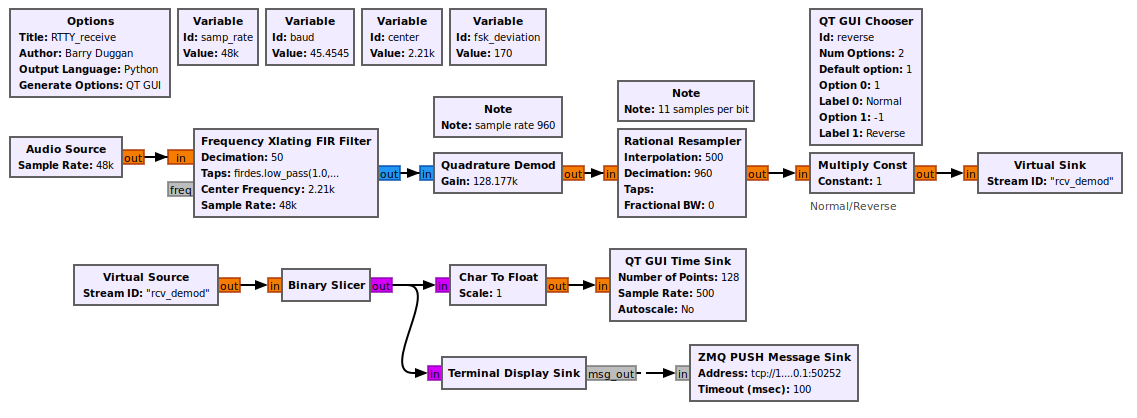
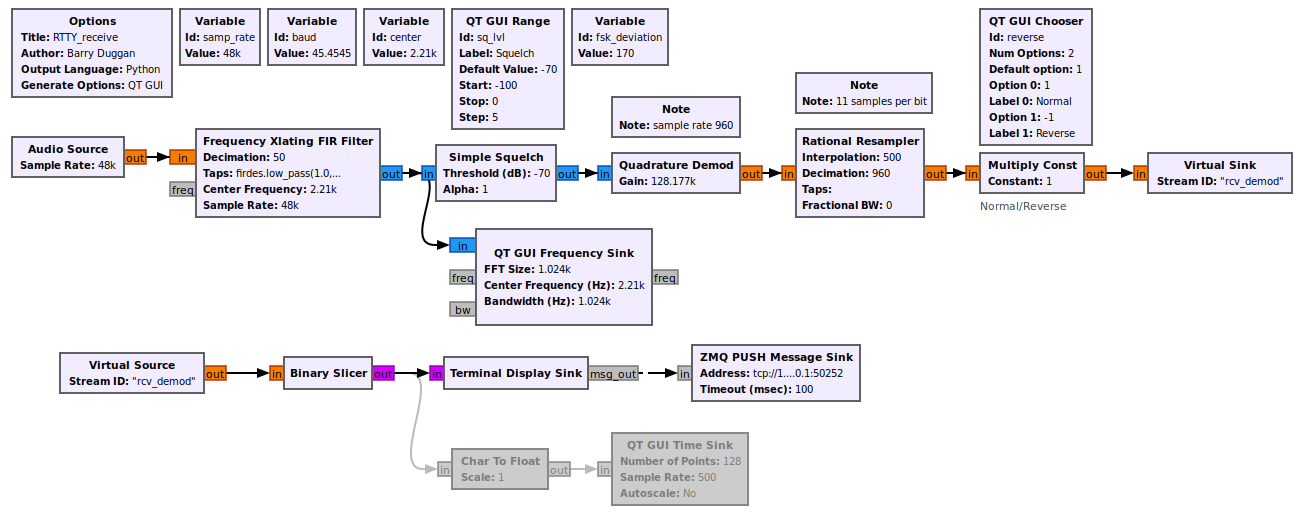
send two LTRS, text, CR, CR, LF; add squelch and tuning indicator

Changed region(s): [[0.0, 0.0, 1.0, 0.622], [0.0308, 0.5909, 0.6772, 0.7775], [0.3078, 0.8086, 0.7696, 0.9952]]

diff --git a/RTTY_rcv/RTTY_receive.py b/RTTY_rcv/RTTY_receive.py
@@ -39,6 +39,8 @@ from argparse import ArgumentParser
 from gnuradio.eng_arg import eng_float, intx
 from gnuradio import eng_notation
 from gnuradio import zeromq
+from gnuradio.qtgui import Range, RangeWidget
+from PyQt5 import QtCore
 import epy_block_0
 
 from gnuradio import qtgui
@@ -79,6 +81,7 @@ class RTTY_receive(gr.top_block, Qt.QWidget):
         ##################################################
         # Variables
         ##################################################
+        self.sq_lvl = sq_lvl = -70
         self.samp_rate = samp_rate = 48000
         self.reverse = reverse = 1
         self.fsk_deviation = fsk_deviation = 170
@@ -88,6 +91,9 @@ class RTTY_receive(gr.top_block, Qt.QWidget):
         ##################################################
         # Blocks
         ##################################################
+        self._sq_lvl_range = Range(-100, 0, 5, -70, 200)
+        self._sq_lvl_win = RangeWidget(self._sq_lvl_range, self.set_sq_lvl, 'Squelch', "counter_slider", float, QtCore.Qt.Horizontal)
+        self.top_grid_layout.addWidget(self._sq_lvl_win)
         # Create the options list
         self._reverse_options = (1, -1, )
         # Create the labels list
@@ -119,60 +125,54 @@ class RTTY_receive(gr.top_block, Qt.QWidget):
                 decimation=960,
                 taps=None,
                 fractional_bw=None)
-        self.qtgui_time_sink_x_0 = qtgui.time_sink_f(
-            128, #size
-            500, #samp_rate
+        self.qtgui_freq_sink_x_0 = qtgui.freq_sink_c(
+            1024, #size
+            firdes.WIN_BLACKMAN_hARRIS, #wintype
+            center, #fc
+            1024, #bw
             "", #name
-            1, #number of inputs
+            1,
             None # parent
         )
-        self.qtgui_time_sink_x_0.set_update_time(0.10)
-        self.qtgui_time_sink_x_0.set_y_axis(-1, 2)
+        self.qtgui_freq_sink_x_0.set_update_time(0.05)
+        self.qtgui_freq_sink_x_0.set_y_axis(-140, 10)
+        self.qtgui_freq_sink_x_0.set_y_label('Relative Gain', 'dB')
+        self.qtgui_freq_sink_x_0.set_trigger_mode(qtgui.TRIG_MODE_FREE, 0.0, 0, "")
+        self.qtgui_freq_sink_x_0.enable_autoscale(False)
+        self.qtgui_freq_sink_x_0.enable_grid(False)
+        self.qtgui_freq_sink_x_0.set_fft_average(1.0)
+        self.qtgui_freq_sink_x_0.enable_axis_labels(True)
+        self.qtgui_freq_sink_x_0.enable_control_panel(False)
+        self.qtgui_freq_sink_x_0.set_fft_window_normalized(False)
 
-        self.qtgui_time_sink_x_0.set_y_label('Amplitude', "")
-
-        self.qtgui_time_sink_x_0.enable_tags(True)
-        self.qtgui_time_sink_x_0.set_trigger_mode(qtgui.TRIG_MODE_NORM, qtgui.TRIG_SLOPE_NEG, 0.5, 0, 0, "")
-        self.qtgui_time_sink_x_0.enable_autoscale(False)
-        self.qtgui_time_sink_x_0.enable_grid(False)
-        self.qtgui_time_sink_x_0.enable_axis_labels(True)
-        self.qtgui_time_sink_x_0.enable_control_panel(True)
-        self.qtgui_time_sink_x_0.enable_stem_plot(False)
 
 
         labels = ['', '', '', '', '',
             '', '', '', '', '']
         widths = [1, 1, 1, 1, 1,
             1, 1, 1, 1, 1]
-        colors = ['blue', 'red', 'green', 'black', 'cyan',
-            'magenta', 'yellow', 'dark red', 'dark green', 'dark blue']
+        colors = ["blue", "red", "green", "black", "cyan",
+            "magenta", "yellow", "dark red", "dark green", "dark blue"]
         alphas = [1.0, 1.0, 1.0, 1.0, 1.0,
             1.0, 1.0, 1.0, 1.0, 1.0]
-        styles = [1, 1, 1, 1, 1,
-            1, 1, 1, 1, 1]
-        markers = [-1, -1, -1, -1, -1,
-            -1, -1, -1, -1, -1]
-
 
         for i in range(1):
             if len(labels[i]) == 0:
-                self.qtgui_time_sink_x_0.set_line_label(i, "Data {0}".format(i))
+                self.qtgui_freq_sink_x_0.set_line_label(i, "Data {0}".format(i))
             else:
-                self.qtgui_time_sink_x_0.set_line_label(i, labels[i])
-            self.qtgui_time_sink_x_0.set_line_width(i, widths[i])
-            self.qtgui_time_sink_x_0.set_line_color(i, colors[i])
-            self.qtgui_time_sink_x_0.set_line_style(i, styles[i])
-            self.qtgui_time_sink_x_0.set_line_marker(i, markers[i])
-            self.qtgui_time_sink_x_0.set_line_alpha(i, alphas[i])
+                self.qtgui_freq_sink_x_0.set_line_label(i, labels[i])
+            self.qtgui_freq_sink_x_0.set_line_width(i, widths[i])
+            self.qtgui_freq_sink_x_0.set_line_color(i, colors[i])
+            self.qtgui_freq_sink_x_0.set_line_alpha(i, alphas[i])
 
-        self._qtgui_time_sink_x_0_win = sip.wrapinstance(self.qtgui_time_sink_x_0.pyqwidget(), Qt.QWidget)
-        self.top_grid_layout.addWidget(self._qtgui_time_sink_x_0_win)
+        self._qtgui_freq_sink_x_0_win = sip.wrapinstance(self.qtgui_freq_sink_x_0.pyqwidget(), Qt.QWidget)
+        self.top_grid_layout.addWidget(self._qtgui_freq_sink_x_0_win)
         self.freq_xlating_fir_filter_xxx_0 = filter.freq_xlating_fir_filter_fcf(50, firdes.low_pass(1.0,samp_rate,1000,400), center, samp_rate)
         self.epy_block_0 = epy_block_0.my_sync_block()
         self.digital_binary_slicer_fb_0 = digital.binary_slicer_fb()
         self.blocks_multiply_const_vxx_0 = blocks.multiply_const_ff(reverse)
-        self.blocks_char_to_float_0 = blocks.char_to_float(1, 1)
         self.audio_source_0 = audio.source(samp_rate, '', True)
+        self.analog_simple_squelch_cc_0 = analog.simple_squelch_cc(sq_lvl, 1)
         self.analog_quadrature_demod_cf_1 = analog.quadrature_demod_cf(samp_rate/50*(2*math.pi*fsk_deviation/8.0))
 
 
@@ -182,12 +182,12 @@ class RTTY_receive(gr.top_block, Qt.QWidget):
         ##################################################
         self.msg_connect((self.epy_block_0, 'msg_out'), (self.zeromq_push_msg_sink_0, 'in'))
         self.connect((self.analog_quadrature_demod_cf_1, 0), (self.rational_resampler_xxx_0_0, 0))
+        self.connect((self.analog_simple_squelch_cc_0, 0), (self.analog_quadrature_demod_cf_1, 0))
         self.connect((self.audio_source_0, 0), (self.freq_xlating_fir_filter_xxx_0, 0))
-        self.connect((self.blocks_char_to_float_0, 0), (self.qtgui_time_sink_x_0, 0))
         self.connect((self.blocks_multiply_const_vxx_0, 0), (self.digital_binary_slicer_fb_0, 0))
-        self.connect((self.digital_binary_slicer_fb_0, 0), (self.blocks_char_to_float_0, 0))
         self.connect((self.digital_binary_slicer_fb_0, 0), (self.epy_block_0, 0))
-        self.connect((self.freq_xlating_fir_filter_xxx_0, 0), (self.analog_quadrature_demod_cf_1, 0))
+        self.connect((self.freq_xlating_fir_filter_xxx_0, 0), (self.analog_simple_squelch_cc_0, 0))
+        self.connect((self.freq_xlating_fir_filter_xxx_0, 0), (self.qtgui_freq_sink_x_0, 0))
         self.connect((self.rational_resampler_xxx_0_0, 0), (self.blocks_multiply_const_vxx_0, 0))
 
 
@@ -195,6 +195,13 @@ class RTTY_receive(gr.top_block, Qt.QWidget):
         self.settings = Qt.QSettings("GNU Radio", "RTTY_receive")
         self.settings.setValue("geometry", self.saveGeometry())
         event.accept()
+
+    def get_sq_lvl(self):
+        return self.sq_lvl
+
+    def set_sq_lvl(self, sq_lvl):
+        self.sq_lvl = sq_lvl
+        self.analog_simple_squelch_cc_0.set_threshold(self.sq_lvl)
 
     def get_samp_rate(self):
         return self.samp_rate
@@ -225,6 +232,7 @@ class RTTY_receive(gr.top_block, Qt.QWidget):
     def set_center(self, center):
         self.center = center
         self.freq_xlating_fir_filter_xxx_0.set_center_freq(self.center)
+        self.qtgui_freq_sink_x_0.set_frequency_range(self.center, 1024)
 
     def get_baud(self):
         return self.baud

diff --git a/RTTY_xmt/epy_block_0_0.py b/RTTY_xmt/epy_block_0_0.py
@@ -50,7 +50,8 @@ class mc_sync_block(gr.sync_block):
 #       convert UTF-8 to ITA2 (Baudot)
         if (len (textboxValue) > 0):
             bit_stream = [ 1, 1, 1, 1, 1, 1, 1, 1, 1, 1, 1, 1, 1, 1, 1, 1 ]
-            CQita2 = []
+            CQita2 = [31, 31]    # LTRS
+            _shift = 0
             for in0 in textboxValue:
                 # get next char
                 inChar = str (in0)
@@ -75,6 +76,7 @@ class mc_sync_block(gr.sync_block):
                     CQita2.append (int(_idx))
                 else:
                     CQita2.append (4)    # space
+            CQita2.append (8)    # CR
             CQita2.append (8)    # CR
             CQita2.append (2)    # LF
 #            print ("CQita2:")
